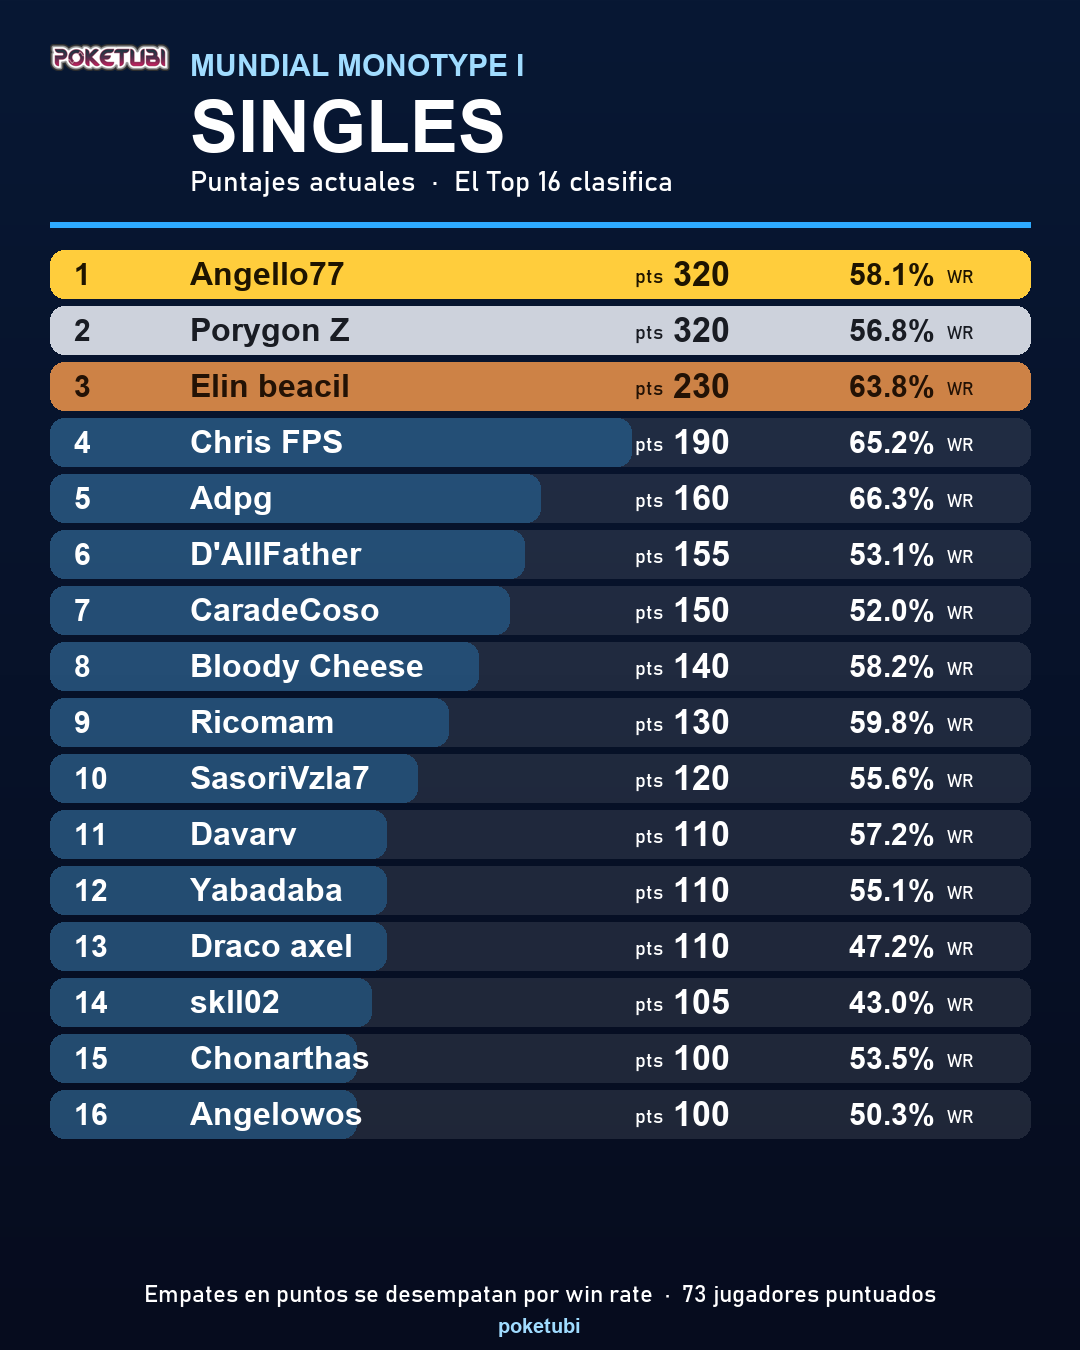
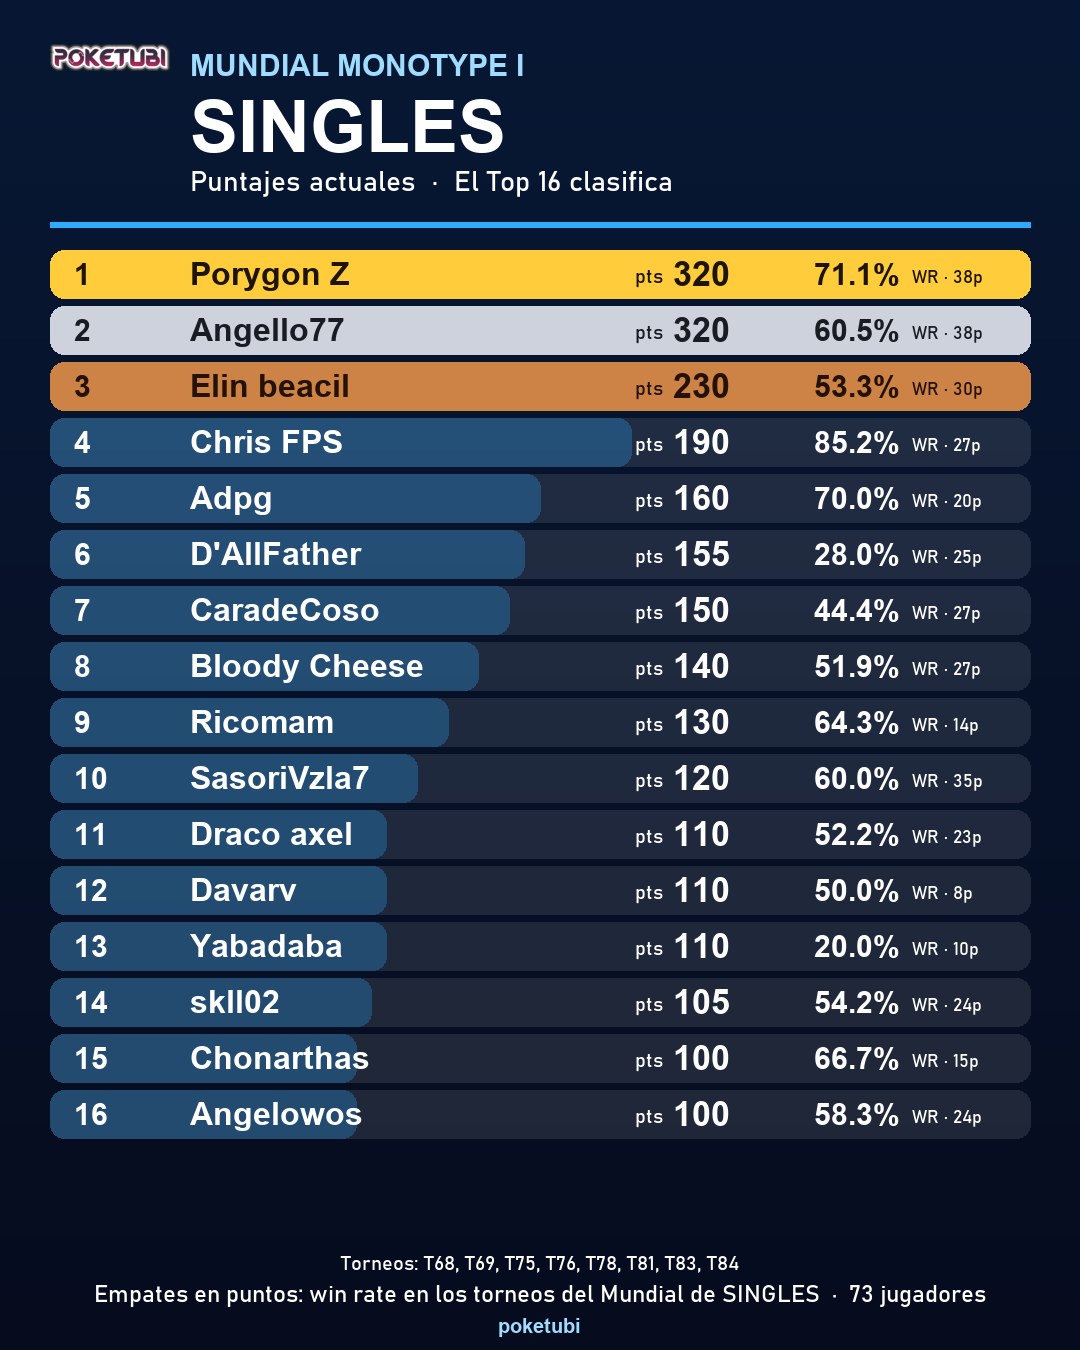
Rankings Monotype I: win rate por formato en torneos del Mundial y lista de torneos

diff --git a/generar_ranking_monotype_png.py b/generar_ranking_monotype_png.py
@@ -11,7 +11,6 @@ import sys
 import logging
 
 logging.disable(logging.CRITICAL)
-import pandas as pd
 from PIL import Image, ImageDraw, ImageFont
 
 from utils import load_data
@@ -44,24 +43,35 @@ def _gradiente(c1, c2):
     return img
 
 
-def _score_xtream():
-    """Win rate % por jugador (minusculas), usado solo para desempatar."""
-    try:
-        d = pd.read_csv("data/score_xtream.csv", sep=";", encoding="utf-8-sig")
-        return {str(j).strip().lower(): float(v) for j, v in zip(d["Jugador"], d["Win rate %"])}
-    except Exception:
-        return {}
+def _winrates(df_raw):
+    """Win rate por formato y jugador, solo con las batallas jugadas (Walkover == 0) de los torneos del
+    Mundial Monotype I que pertenecen a ese formato (MONOTYPE1_POSICIONES). Devuelve {fmt: {jugador: (wr %, juegos)}}."""
+    out = {}
+    for fmt in ("SINGLES", "DOBLES", "VGC"):
+        torneos = [t for t, fm in mi.MONOTYPE1_POSICIONES.items() if fmt in {str(k).upper() for k in fm}]
+        g = df_raw[(df_raw["league"] == "TORNEO") & (df_raw["N_Torneo"].isin(torneos))
+                   & (df_raw["Formato"].astype(str).str.upper() == fmt) & (df_raw["Walkover"] == 0)]
+        res = {}
+        for p1, p2, w in zip(g["player1"], g["player2"], g["winner"]):
+            for j in (p1, p2):
+                v = res.setdefault(str(j).strip().lower(), [0, 0])
+                v[1] += 1
+                v[0] += str(w).strip().lower() == str(j).strip().lower()
+        out[fmt] = {j: (100.0 * v[0] / v[1], v[1]) for j, v in res.items() if v[1]}
+    return out
 
 
 def _ranking(df_raw):
     rankings, _ = mi._calcular_puntos_por_formato(
         mi.MONOTYPE1_TIPOS, mi.MONOTYPE1_POSICIONES, mi.MONOTYPE1_LIGAS, df_raw, mi.MONOTYPE1_PENALIDADES)
-    sx = _score_xtream()
+    wr = _winrates(df_raw)
     out = {}
     for fmt, pts in rankings.items():
-        # mismos puntos -> gana el de mayor win rate (luego orden alfabetico); sin empates en la tabla
-        orden = sorted(pts.items(), key=lambda kv: (-kv[1], -sx.get(kv[0].strip().lower(), 0.0), kv[0].lower()))
-        out[fmt] = [(i, jug, p, sx.get(jug.strip().lower())) for i, (jug, p) in enumerate(orden, 1)]
+        w = wr.get(fmt, {})
+        # mismos puntos -> gana el de mayor win rate en los torneos de ese formato (luego mas partidas, luego nombre)
+        orden = sorted(pts.items(), key=lambda kv: (-kv[1], -w.get(kv[0].strip().lower(), (-1, 0))[0],
+                                                   -w.get(kv[0].strip().lower(), (0, 0))[1], kv[0].lower()))
+        out[fmt] = [(i, jug, p, w.get(jug.strip().lower())) for i, (jug, p) in enumerate(orden, 1)]
     return out
 
 
@@ -112,11 +122,14 @@ def dibujar(fmt, filas):
         d.text((730, cy), f"{pts}", font=_f(34, True), fill=texto_c, anchor="rm")
         d.text((730 - d.textlength(str(pts), font=_f(34, True)) - 10, cy + 3), "pts",
                font=_f(20), fill=texto_c, anchor="rm")
-        sx_txt = f"{sxv:.1f}%" if sxv is not None else "-"
-        d.text((935, cy), sx_txt, font=_f(30, True), fill=texto_c, anchor="rm")
-        d.text((947, cy + 3), "WR", font=_f(18), fill=texto_c, anchor="lm")
+        sx_txt = f"{sxv[0]:.1f}%" if sxv else "-"
+        d.text((900, cy), sx_txt, font=_f(30, True), fill=texto_c, anchor="rm")
+        d.text((912, cy + 3), f"WR · {sxv[1]}p" if sxv else "WR", font=_f(18), fill=texto_c, anchor="lm")
 
-    pie = f"Empates en puntos se desempatan por win rate  ·  {len(filas)} jugadores puntuados"
+    torneos = sorted(t for t, fm in mi.MONOTYPE1_POSICIONES.items() if fmt in {str(k).upper() for k in fm})
+    pie = f"Empates en puntos: win rate en los torneos del Mundial de {fmt}  ·  {len(filas)} jugadores"
+    d.text((ANCHO // 2, ALTO - 86), "Torneos: " + ", ".join(f"T{t}" for t in torneos),
+           font=_f(20), fill=(255, 255, 255, 140), anchor="mm")
     d.text((ANCHO // 2, ALTO - 56), pie, font=_f(24), fill=(255, 255, 255, 170), anchor="mm")
     d.text((ANCHO // 2, ALTO - 24), "poketubi", font=_f(20, True), fill=claro, anchor="mm")
     return img
